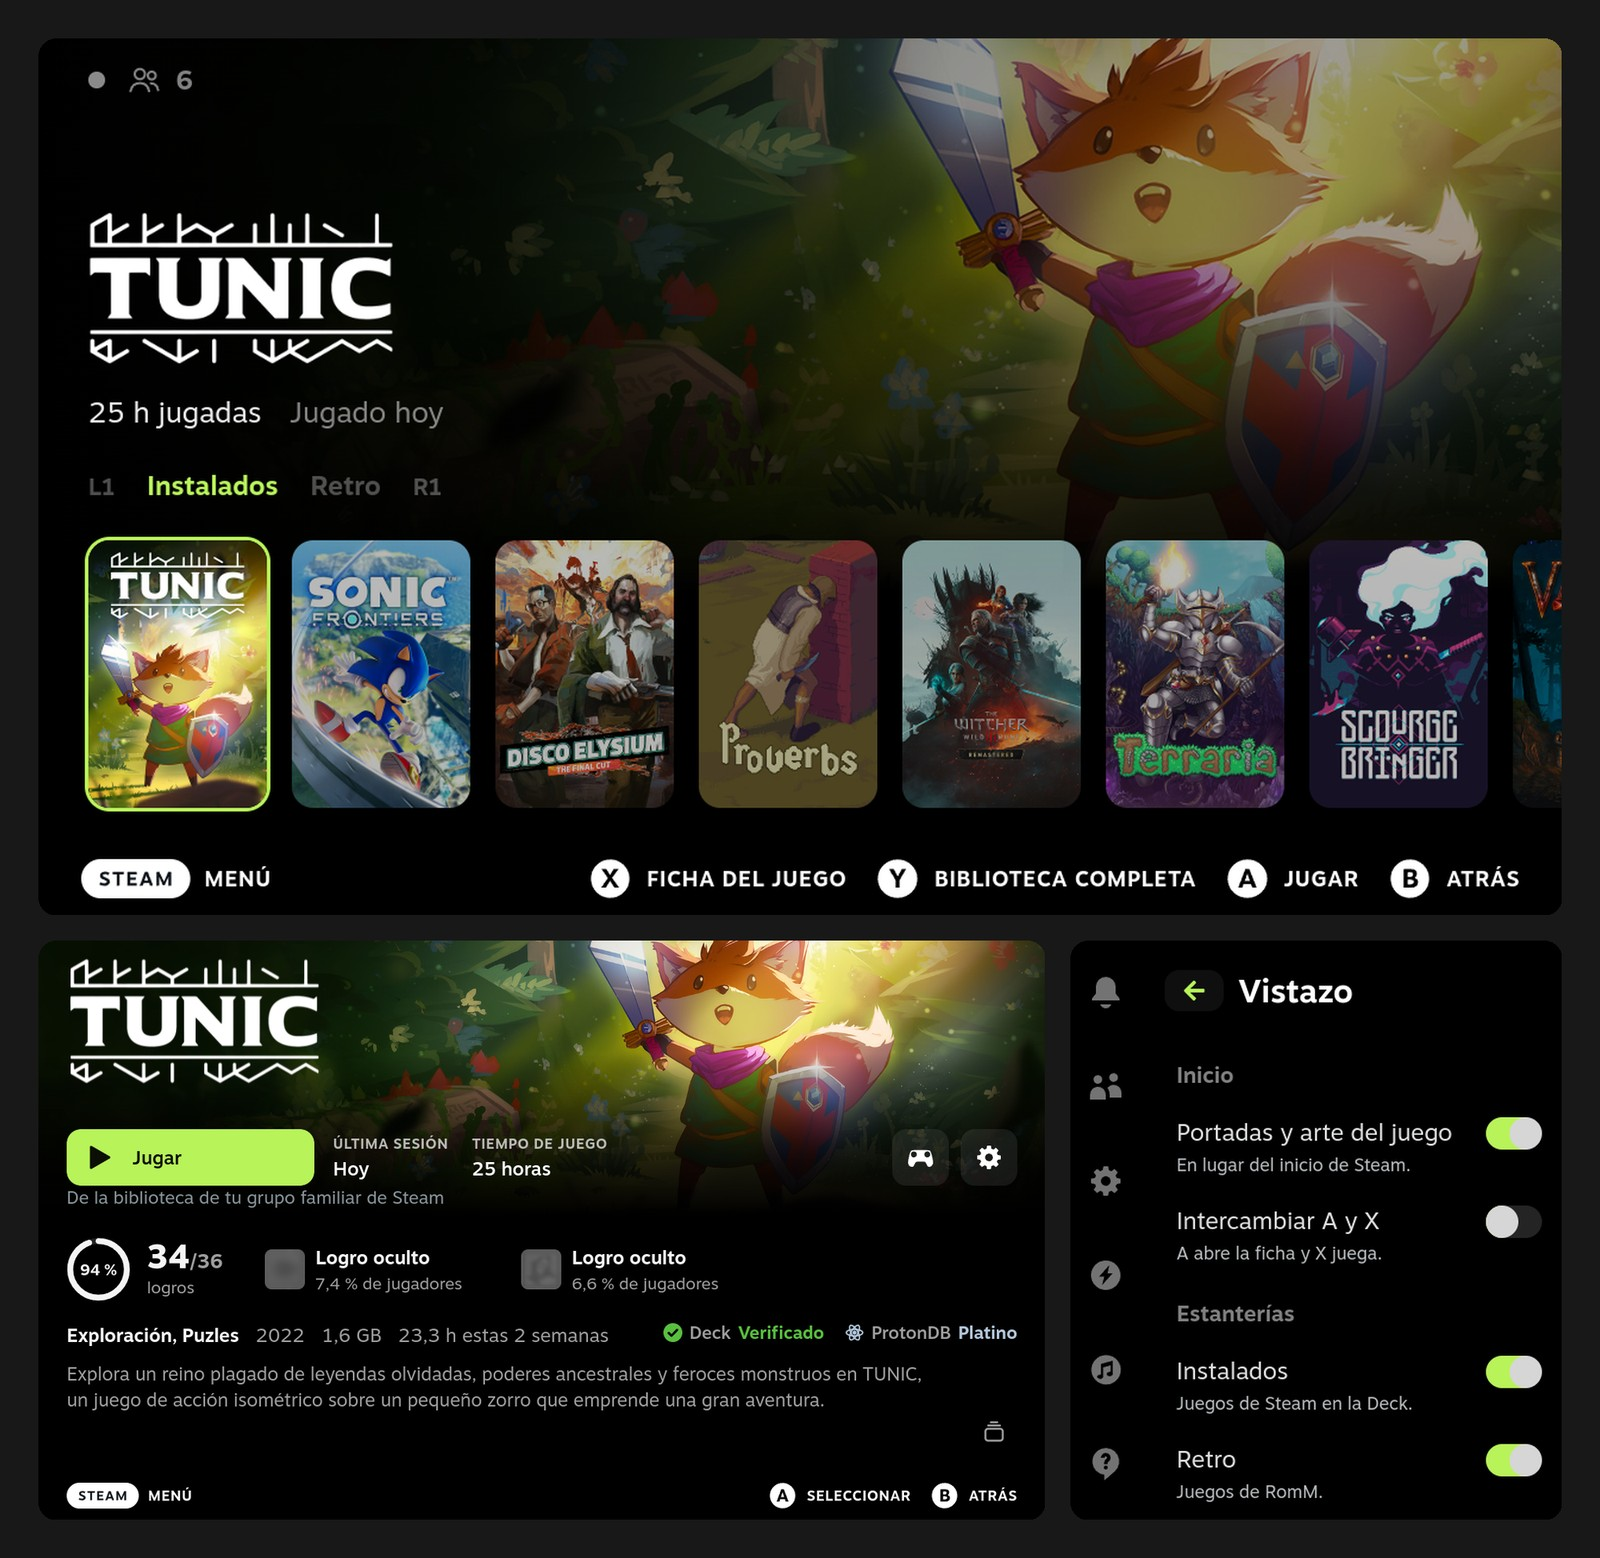
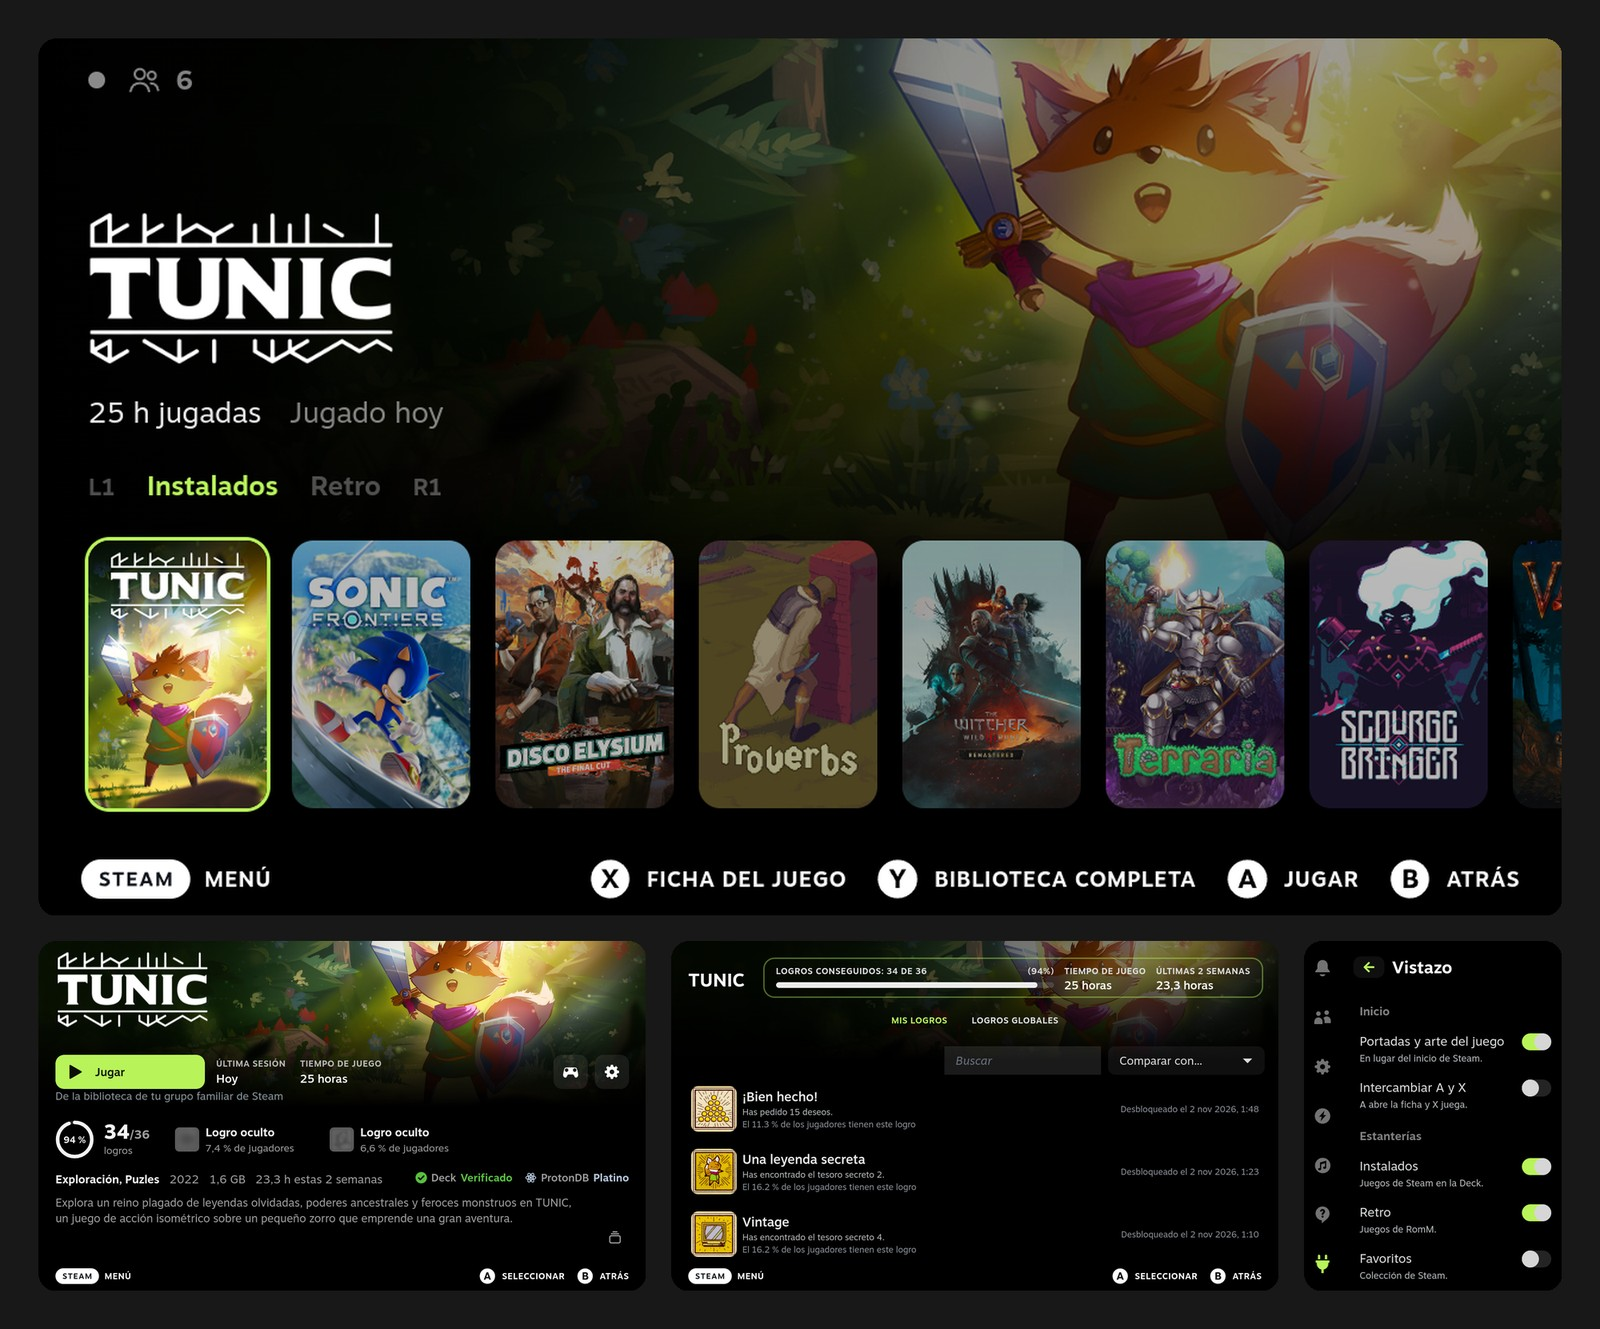
Spanish screenshots now include the achievements list

diff --git a/README.md b/README.md
@@ -5,7 +5,7 @@ and the game pages for the OLED screen, and swaps the menu sounds for quieter on
 
 *Vistazo* is Spanish for "a glance": everything you need about a game, at a glance.
 
-![Vistazo on a Steam Deck: the home screen, a game page and the settings](docs/screenshots/vistazo-en.jpg)
+![Vistazo on a Steam Deck: the home screen, a game page, its achievements and the settings](docs/screenshots/vistazo-en.jpg)
 
 - **Real black** wherever there is nothing to show, which on an OLED screen means pixels that are off.
 - **No boxes, borders, glows or blur.** Hierarchy comes from brightness and size.

diff --git a/README.es.md b/README.es.md
@@ -4,7 +4,7 @@
 inicio y la ficha de cada juego pensando en la pantalla OLED, y cambia los sonidos de los menús por otros más
 suaves.
 
-![Vistazo en una Steam Deck: el inicio, la ficha de un juego y los ajustes](docs/screenshots/vistazo-es.jpg)
+![Vistazo en una Steam Deck: el inicio, la ficha de un juego, sus logros y los ajustes](docs/screenshots/vistazo-es.jpg)
 
 - **Negro real** donde no hay nada que mostrar, que en una OLED son píxeles apagados.
 - **Sin cajas, bordes, brillos ni desenfoques.** La jerarquía sale del brillo y el tamaño.
